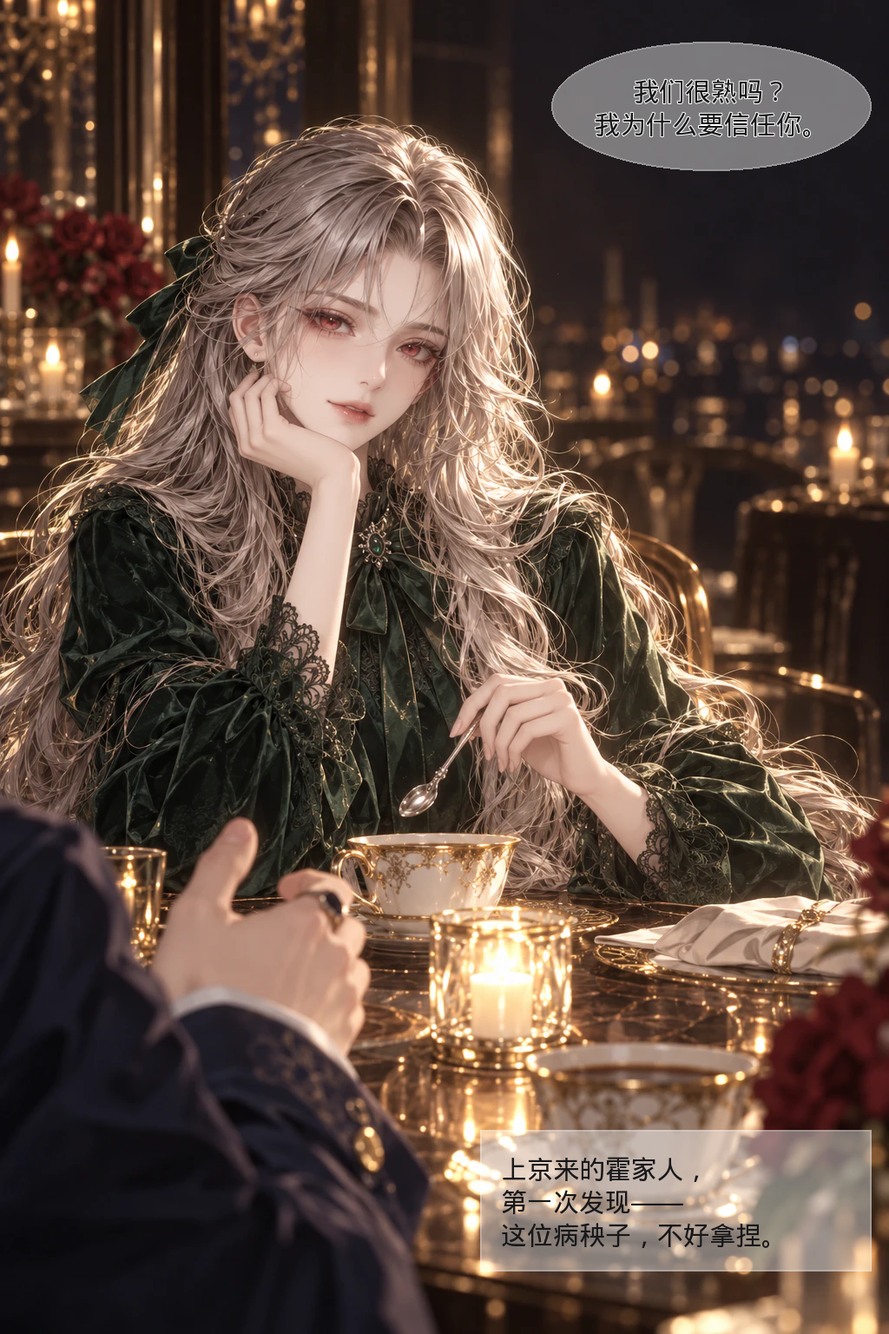
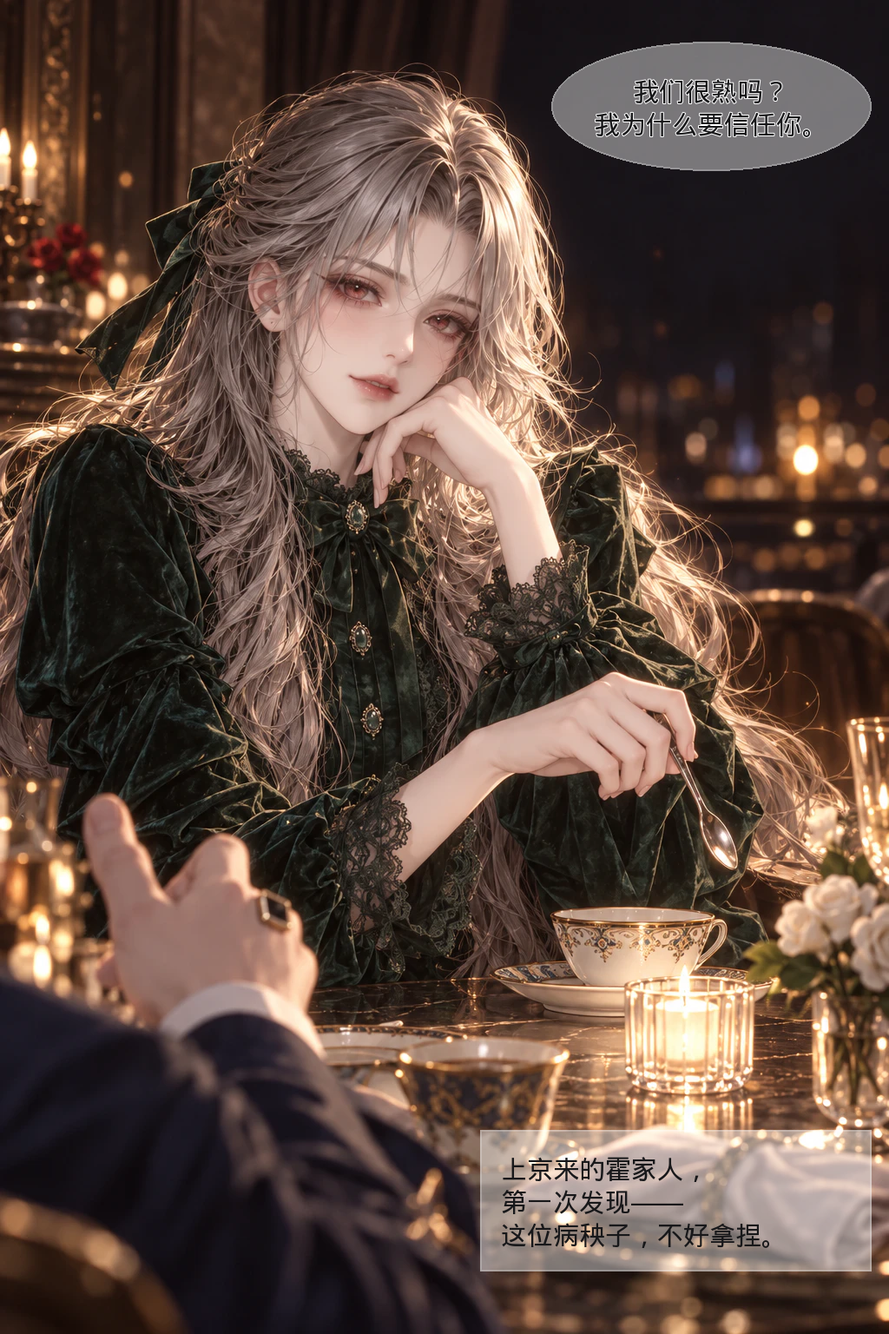
按创作者确认纠正11话原包P3/P5页号：恢复约会双格与唯一单镜并重贴

diff --git a/tests/test_comic_lettering.py b/tests/test_comic_lettering.py
@@ -4,6 +4,7 @@ from __future__ import annotations
 import importlib.util
 import json
 import unittest
+import zipfile
 from pathlib import Path
 from unittest import mock
 
@@ -36,6 +37,22 @@ class ComicLetteringTests(unittest.TestCase):
         font, _, _ = lettering.fit_lines("继续说。", self.font, 400, 200, 30, 26)
         self.assertEqual(font.size, 30)
 
+    def test_ch11_corrected_source_page_mapping(self):
+        with zipfile.ZipFile(ROOT / "漫画改编/P11.zip") as archive:
+            for stem, member, panel_count in (
+                ("P3-约会", "P11/p11-5.png", 2),
+                ("P5-反客为主", "P11/p11-3.png", 1),
+            ):
+                with self.subTest(page=stem):
+                    data = json.loads((ROOT / f"漫画改编/工具/贴字-spec/第11话-{stem}.json").read_text())
+                    self.assertEqual(data["source_member"], member)
+                    self.assertEqual((ROOT / data["image"]).read_bytes(), archive.read(member))
+                    self.assertEqual(len(data["panel_rects"]), panel_count)
+        specs = ROOT / "漫画改编/工具/贴字-spec"
+        single_pages = [p.stem for p in specs.glob("第11话-*.json")
+                        if len(json.loads(p.read_text())["panel_rects"]) == 1]
+        self.assertEqual(single_pages, ["第11话-P5-反客为主"])
+
     def test_closeout_specs_and_rendered_boxes(self):
         specs = ROOT / "漫画改编/工具/贴字-spec"
         paths = sorted(specs.glob("第11话-*.json")) + sorted(specs.glob("第12话-*.json"))
@@ -50,8 +67,16 @@ class ComicLetteringTests(unittest.TestCase):
                     self.assertEqual(out.size, canvas.size)
                     self.assertEqual(out.mode, "RGB")
                 panels = data["panel_rects"]
-                # Current closeout pages have visible straight gutters or a single panel.
-                self.assertEqual(panels, [list(r) for r in lettering.detect_panels(canvas)[0]])
+                # P3 的偏暖细白缝无法由默认检测识别，验证手测坐标及核心白线。
+                if path.name == "第11话-P3-约会.json":
+                    self.assertEqual(panels, [[0, 0, 1024, 494], [0, 498, 1024, 1536]])
+                    for y in (495, 496):
+                        for x in range(0, canvas.width, 4):
+                            rgb = canvas.getpixel((x, y))[:3]
+                            self.assertGreater(min(rgb), 190)
+                            self.assertLess(max(rgb) - min(rgb), 40)
+                else:
+                    self.assertEqual(panels, [list(r) for r in lettering.detect_panels(canvas)[0]])
                 lettering.OCCUPIED.clear()
                 for i, item in enumerate(data["items"]):
                     self.assertTrue(item["fixed"], "已目检坐标不可再自动漂移")

diff --git a/漫画改编/第11-12话-收尾检查.md b/漫画改编/第11-12话-收尾检查.md
@@ -1,15 +1,27 @@
 # 第 11–12 话｜贴字收尾检查
 
-**日期：2026-10-24 · 贴字文件完成；原画仍有保留项，不等于全部符合原分镜。**
+**更新：2026-10-25 · 第 11 话 P3/P5 已归位重贴；本话版式恢复符合规划。**
 
 12-P2「泼酒」按创作者决定 **保留完整原图，不重出、不裁切，只贴字**。第 11 话 5 页、第 12 话 8 页，13 张成品与对应贴字规格均已落盘。
 
-## 再次复核（创作者反馈无法从分支打开后）
+## 页号最终更正（2026-10-25）
+
+创作者确认原包 P3/P5 名字写反。现已从原包恢复：
+
+| 原始成员（原包不改名） | 正确正片页 | 实图 |
+|---|---|---|
+| `P11.zip → P11/p11-5.png` | P3「约会」 | 空餐厅＋保镖，双格 L2-W |
+| `P11.zip → P11/p11-3.png` | P5「反客为主」 | 托腮持勺，单镜 L-S |
+
+修正包 `11-P5.png` 退出正片，仍保留在原 zip；没有重画或裁切。两页对白按正确页序重新贴入，P3 恢复原草案的椅子旁白。
+**第 11 话仅 P5 一个单镜；此前“双单镜、版式超预算”的结论撤销。**
+
+## 上轮复核记录（2026-10-24，涉及第 11 话旧页号的判断已由上节更正）
 
 - **交付漏项属实**：上轮文件只在工作区，新成品仍未跟踪，没有提交/推送；工作区落盘不等于远端分支可打开。现已通过成果提交 **`6b2b5cb`** 推送到 `arena/d05365eb-drama-skills`；远端 SHA 已核对一致，提交树内 13 张新成品与本报告齐全。
 - **重新看图**：13 张第 11/12 话贴字页全部重新通读；另外对 10-P4 包扎/清理、11-P5 持勺、12-P5 揪衣领、12-P7 捏衣料做了 400% 局部放大抽查。未发现足以推翻这些修正图可用判定的新手部错误；被布料遮住的拇指不强行认定缺指。这是重点抽查，不冒充全页所有手的重新验收。
 - **找到并改正一处图文不符**：10-P4 中格实际是镊子夹棉球清理伤口，不是缝针；「一针一针缝下去」已改为「伤口一点点处理好」，规格与对白同步更新并重渲。
-- **结论分开写**：贴字规格/页序/文件配对通过；11-P3 的单镜偏离、12-P2 的酒色误读仍在。前者不擅自重画，后者按创作者决定保留，不能概括成「原画全部符合」。
+- **结论分开写**：贴字规格/文件配对通过；第 11 话页号已于 10-25 更正。12-P2 酒色误读仍按创作者决定保留，不能把贴字通过当作平台审核保证。
 - **手机阅读提醒**：原幅 26–30px 的字在整页缩至 390px 宽时约 10–11px；原尺寸可读，不将其宣传为已通过所有手机屏幕的免缩放阅读验收。
 
 ## 成品入口
@@ -18,9 +30,9 @@
 |---|---|---|---|
 | 11 | P1 | [赔礼](第11话/P1-赔礼-贴字.png) | L2-W |
 | 11 | P2 | [两盒游戏](第11话/P2-两盒游戏-贴字.png) | L4-Q |
-| 11 | P3 | [约会](第11话/P3-约会-贴字.png) | L-S，旧图审误记为双格 |
+| 11 | P3 | [约会](第11话/P3-约会-贴字.png) | L2-W，原包 p11-5 归位 |
 | 11 | P4 | [三问](第11话/P4-三问-贴字.png) | L3-T |
-| 11 | P5 | [反客为主](第11话/P5-反客为主-贴字.png) | L-S，采用修正图 |
+| 11 | P5 | [反客为主](第11话/P5-反客为主-贴字.png) | L-S，原包 p11-3 归位 |
 | 12 | P1 | [霍音音](第12话/P1-霍音音-贴字.png) | L3-V |
 | 12 | P2 | [泼酒](第12话/P2-泼酒-贴字.png) | L2-W，完整保留原图 |
 | 12 | P3 | [很适合当狗](第12话/P3-很适合当狗-贴字.png) | L3-T，采用修正图 |
@@ -34,20 +46,20 @@
 
 ## 本轮修正与验收
 
-- **13 张新贴字页**：1024×1536、RGB PNG；第 11 话 17 条文字、第 12 话 42 条，共 59 条。
+- **13 张新贴字页**：1024×1536、RGB PNG；第 11 话 18 条文字、第 12 话 42 条，共 60 条。
 - **对白归档**：[第 11 话](第11话/分镜对白.md)、[第 12 话](第12话/分镜对白.md)，逐条对应最终 spec。画外对白必要时标姓名，避免说话者错认。
 - **10-P4 坐标修正**：旧 spec 沿用 941×1672 尺寸，新修正图实际为 1024×1536。本轮改为 y=0–542 / 543–962 / 963–1536 三格，重新排字，避开包扎、持镊和喂食动作。
-- **逐页实测分格**：13 页均使用明确的 `panel_rects`，不沿用旧话坐标。第 11 话 P3 按实图单镜处理。
+- **逐页实测分格**：13 页均使用明确的 `panel_rects`，不沿用旧话坐标。第 11 话 P3 已恢复双格，手工测定偏暖细缝；P5 为单镜。
 - **可读性**：11/12 话半透明底 α=0.42，字号下限 26px；修复半宽格起始字号可能低于 `min_font`、缩小步长可能越过下限的问题。
 - **目检**：逐页检查说话者、阅读顺序、眼口与关键手势避让。移动了初稿中挡脸、挡手的位置；11-P3 与 12-P6 的问答按先问后答排列，12-P7 先读完左格再读右格。
-- **自动检查**：`tests/test_comic_lettering.py` 4 项测试通过，覆盖本轮 14 页的分格矩形、字框越界/重叠、文字宽高、字号下限；成品像素与当前 spec 重渲一致，两话对白归档与 spec 对应。
+- **自动检查**：`tests/test_comic_lettering.py` 5 项测试通过，覆盖本轮 14 页的分格矩形、字框越界/重叠、文字宽高、字号下限；成品像素与当前 spec 重渲一致，两话对白归档与 spec 对应；新增 P3/P5 原包映射与单镜数量回归。
 - **文件完整性**：第 01–12 话共 56 页原图/贴字文件配对齐全；这是文件盘点，不是对前 10 话重新做完整图审。
-- **原图保护**：本轮未修改任何 raw PNG，未生成或裁切原画。13 张新成品和重排的 10-P4 都是独立的 `*-贴字.png`。
+- **原图保护**：10-25 仅按正确来源更换第 11 话 P3/P5 正片 raw，字节与原包成员一致；未生成或裁切原画，其他 raw 不动。贴字均独立输出。
 
 ## 如实保留的原画问题
 
 1. **12-P2 酒色像血的视觉误读风险仍在**。创作者决定保留，已取消重出待办；不把「贴字完成」写成风险消失或平台审核保证。
-2. **11-P3 是单镜，不是旧图审所写的 L2-W**。已核对 `P11.zip` 同名文件字节哈希一致，非本轮错换图。第 11 话 P3/P5 有两个单镜且构图相近，超出每话单镜 ≤1 的版式规则；本轮不擅自重画。P3 删掉无画面依据的「她连椅子都没让人撤」旁白，用画外对白承接约会。
+2. **第 11 话页号问题已解决**：恢复 P3 双格/P5 单镜；不再列作版式遗留。源文件哈希一致不能排除作者写反页号，此前推断不充分。
 3. 11-P2 / 12-P7 湿发、11-P4 动作偏差等沿用原画；不补写未经确认的洗澡/场景解释。本轮未重新执行全部原画的 400% 手部专项，相关判定沿用上轮图审。
 
 ## 收工范围

diff --git a/漫画改编/记忆存档.md b/漫画改编/记忆存档.md
@@ -5,7 +5,7 @@
 > 「一、当前状态」「三、版式记录」「五、操作日志」三处，再提交。
 > 历史细节查 git log 与 `.agents/notes/`；本文件只保留"现在要知道的事实"。
 >
-> 最后更新：2026-10-24（分支交付补正与再次复核）
+> 最后更新：2026-10-25（第 11 话 P3/P5 源图页号纠正）
 
 ---
 
@@ -16,7 +16,7 @@
 | 分支 | `arena/d05365eb-drama-skills` |
 | 项目根 | `漫画改编/` |
 | 已完成话数 | **第 01–12 话均有 raw + 贴字成品，共 56 页**；本轮完成 11 话 5 页、12 话 8 页，并重排 10-P4 |
-| 进行中 | **贴字完成，成果已推送并核验**。12-P2 原图完整保留，只贴字，不重出、不裁切；第 13 话未开工 |
+| 进行中 | **贴字完成；第 11 话 P3/P5 已按原包纠正并重渲**。12-P2 原图完整保留，只贴字，不重出、不裁切；第 13 话未开工 |
 | 发布节点 | **发到第 12 话**（最终落点是 P8 镜前「怪物」，名字揭示在 P1）；第一卷共 15 话，见 `后续话数规划.md` |
 | 画风基准 | 第 01 话成品页（gpt-image-2.5 出图，韩系半写实厚涂 / 日系乙女 CG） |
 | 生图归属 | 第 01–08 话：AI 出图；**第 09 话起：创作者自行出图**，AI 只交付提示词/分镜/贴字 |
@@ -68,7 +68,7 @@
 | 01–08 | — | L3-V（旧） | 改版前产物，不回溯重做 |
 | 09 | 5 | L3-V ×5 | 旧节奏；09 起不再重出，仅贴字 |
 | 10 | 5 | L3-V ×5 | 同上；P4 中格按实图为清理伤口，已撤下「缝针」旁白 |
-| 11 | 5 | L2-W / L4-Q / **L-S** / L3-T / L-S | 实图 4 种；P3 原图本就是单镜，旧图审误记双格；双单镜属遗留例外，本轮不改画 |
+| 11 | 5 | L2-W / L4-Q / **L2-W** / L3-T / L-S | 原包 P3/P5 名字写反，已归位；4 种版式，仅 P5 单镜，符合版式规则 |
 | 12 | 8 | L3-V / L2-W / L3-T / L4-Q / L2-W / L3-B / L2-D / L-S | 7 种；P2 原图保留并贴字，8 页齐全 |
 | 13+ | — | **待排** | 本轮不推进 |
 
@@ -76,8 +76,7 @@
 
 | 话 | 页 | 转折点 | 三问得分 |
 |---|---|---|---|
-| 11 | P3 | 约会（原画偏离双格规划） | 未作转折三问批准；登记遗留，不编造评分 |
-| 11 | P5 | 反客为主 | 草案 3/3；与 P3 构图相似，效果弱于规划 |
+| 11 | P5 | 反客为主 | 草案 3/3；原包 p11-3.png 归位后为本话唯一单镜 |
 | 12 | P8 | 镜前怪物、自囚伏笔 | 3/3；本话唯一单镜 |
 
 ---
@@ -86,16 +85,17 @@
 
 ### 本轮已完成（不再追重出）
 - [x] 10-P4 修正图已入库；本轮将旧 941×1672 坐标改成新图 1024×1536 的三格实测坐标，重排文字。
-- [x] 11-P5 / 12-P3 / 12-P5 修正图已入库并贴字。
+- [x] 12-P3 / 12-P5 修正图已入库并贴字；第 11 话按源图页号纠正为原包 p11-5 → P3、p11-3 → P5，两个成品已重渲。
 - [x] **12-P2「泼酒」按创作者决定不修改原图**：不重出、不裁切，只贴字；风险留档但非缺页。
 - [x] 第 11 话 5 页 + 第 12 话 8 页共 **13 页贴字**，13 份 spec + 两份 `分镜对白.md` 齐全。
 - [x] 14 页贴字规格（含 10-P4）通过边界、重叠、文字容纳和字号检查；成品逐页目检。
 - [x] 第 09/10 话此前补字完成；本轮只重渲 10-P4，其余成品不动。
 - [x] 第 11 话 ch31–33「礼物」、第 12 话 ch34–37「音音」章节归属已校正。
 
+- [x] **11-P3/P5 页号问题已解决**：恢复 P3 双格、P5 单镜，撤销“双单镜超预算”结论。
+
 ### 原画遗留（本轮不改）
 - **12-P2 酒色容易被误读为血**：创作者明确保留；贴字完成不等于平台审核保证。
-- **11-P3 实际为单镜**，与 P5 同属单镜且构图相近，违反每话单镜 ≤1 的规则；已按实图贴字并纠正旧图审，未擅自重画。
 - 11-P2 / 12-P7 湿发、11-P4 动作与草案差异等小问题沿用原图；不编造场景解释。
 - 第 07 话 P5 男主近景偏大龄；第 04–08 话提示词仍为旧三格格式，留作历史。
 
@@ -108,6 +108,15 @@
 ---
 
 ## 五、操作日志（append-only，最新在上）
+
+### 2026-10-25 · 创作者确认原包 P3/P5 页号写反，归位重贴
+- 原包 `P11/p11-5.png` 是约会双格，恢复到 `第11话/P3-约会.png`；原 `P11/p11-3.png` 是单镜，归位到 `第11话/P5-反客为主.png`。
+- 没有机械互换当前两张单镜：修正包 `11-P5.png` 暂退正片，素材仍在原 zip 中。两张当前 raw 与对应原包成员逐字节相同。
+- P3 手工实测双格 `[0,0,1024,494]` / `[0,498,1024,1536]`（默认检测漏掉偏暖细缝）；P5 单镜。按正确页面对白分别重渲，P3 恢复椅子旁白。
+- 现为 L2-W / L4-Q / L2-W / L3-T / L-S，仅 P5 一个单镜；撤销旧记录的单镜超预算结论。旧日志不改写，以下涉及第 11 话旧页号的判断均由本条更正。
+- 哈希一致只能证明没有取错同名文件，不能证明源文件页号正确；后续优先核对图中叙事与创作者确认。
+- 新增源图映射回归，更新对白、报告和制作记录；12-P2 与其他话成品不动。
+
 
 ### 2026-10-24 · 分支交付补正与再次逐页复核
 - 创作者指出文件不在仓库分支内：确认上轮 13 张成品及规格仍为未跟踪文件，尚未提交/推送；之前「已完成」仅指工作区生成，交付步骤遗漏。

diff --git a/.agents/notes/implemented/bug-fix/2026-10-24-comic-lettering-closeout.md b/.agents/notes/implemented/bug-fix/2026-10-24-comic-lettering-closeout.md
@@ -2,18 +2,22 @@
 
 ## Problem
 
-记忆存档仍列 12-P2 重出，创作者本轮明确不修改原图、贴字后检查收工。第 11–12 话尚无贴字规格与成品。实测发现 10-P4 新图为 1024×1536，旧规格仍为 941×1672；11-P3 原图实际单镜而旧报告误记双格。半宽格的默认字体起始值约 15px，fit_lines 不会提升到 min_font，影响可读性。
+记忆存档仍列 12-P2 重出，创作者本轮明确不修改原图、贴字后检查收工。第 11–12 话尚无贴字规格与成品。实测发现 10-P4 新图为 1024×1536，旧规格仍为 941×1672；起初误把源文件号当作正确页号，后经创作者确认原包 P3/P5 名字写反。半宽格的默认字体起始值约 15px，fit_lines 不会提升到 min_font，影响可读性。
 
 ## Decision
 
 - 保留 12-P2 全幅原图，只贴字，酒色误读风险记录为创作者决定保留的遗留项，不再列待重出。
-- 按当前实图完成 13 份明确 panel_rects 的规格、13 张贴字图并归档对白；11-P3 用画外对白承接约会，不配图中不存在的保镖动作。单镜超预算如实记录，不为收尾擅自重画。
+- 按当前实图完成 13 份明确 panel_rects 的规格、13 张贴字图并归档对白；11-P3/P5 已按创作者更正从原包归位并重渲，P3 为约会双格、P5 为单镜，恢复椅子旁白。
 - 10-P4 重测三格、重排文字；fit_lines 起始字号与收缩步长均不低于 min_size；11/12 话下限 26px，透明度 0.42。
-- 完成逐页目检，新增 4 项回归测试，验证 14 页文字边界/重叠/容纳、分格与字号下限、成品可复现性和对白归档。原图未变；唯一状态入口、图审勘误和问题登记均更新。
+- 完成逐页目检，共 5 项回归测试（含源图映射），验证 14 页文字边界/重叠/容纳、分格与字号下限、成品可复现性和对白归档。两张归位 raw 与原包成员字节相同，其余原图未变；唯一状态入口、图审勘误和问题登记均更新。
 
 ### Follow-up verification
 
 创作者反馈分支内打不开文件后，确认上轮只落盘、未提交/推送，新图仍未跟踪；交付检查补充远端分支 SHA 与成品文件树核验。再次通读 13 页并重点放大四页手部；10-P4 中格实为夹棉球清理而非缝针，旁白改为「伤口一点点处理好」，并同步成品/spec/对白。测试通过不等于原画全部符合分镜，报告明确区分。
+
+### Source page correction（2026-10-25）
+
+原包 `P11/p11-5.png` → P3；`P11/p11-3.png` → P5。修正包 `11-P5.png` 不再作为正片，素材仍在 zip 中。仅交换当前两张单镜会丢掉真正的约会双格，因此回溯原包而非机械互换。撤销“双单镜”结论；源文件哈希相同只保证取图一致，不能证明源页号正确。默认分格检测漏掉 P3 偏暖细缝，实测白缝 y=494–497 后显式锁定并测试。
 
 ## Alternatives considered
 
@@ -23,4 +27,4 @@
 ## Consequences
 
 - 收益：现有页形成可复现的贴字成品，接手不再误追已取消/已完成的重出任务。
-- 代价：12-P2 酒色与第 11 话双单镜等原画遗留问题仍然存在；此轮仅处理贴字及事实记录，不代表平台审核保证。
+- 代价：12-P2 酒色等原画遗留问题仍然存在；第 11 话双单镜判断已因源页号更正撤销；此轮仅处理贴字及事实记录，不代表平台审核保证。

diff --git a/漫画改编/第11话/分镜对白.md b/漫画改编/第11话/分镜对白.md
@@ -1,13 +1,16 @@
 # 第 11 话｜礼物 · 成品分镜对白
 
-> 2026-10-24 收尾版。以下对白与 `工具/贴字-spec/` 的最终渲染逐条对应；格内先上后下，同层先左后右，左右对开页先读完左格再读右格。
-> 原图不改；半透明框 α=0.42，字号下限 26px，固定定位防止重渲漂移。
+> 2026-10-25 页号更正版。以下对白与 `工具/贴字-spec/` 的最终渲染逐条对应；格内先上后下，同层先左后右，左右对开页先读完左格再读右格。
+> 原图按页号归位，不重画、不裁切；半透明框 α=0.42，字号下限 26px，固定定位防止重渲漂移。
 
-## 与分镜草案的差异
+## 源图页号更正（2026-10-25，创作者确认）
 
-- P3 实图为单镜，不是双格。已核对 `P11.zip` 同名页字节哈希，非本轮错换。约会信息由旁白与霍启珏画外对白交代；删除「她连椅子都没让人撤」这条实图无依据的动作旁白。
-- P4 保留不依赖「抬眼」动作的旁白；P2 不补写湿发场景解释。
-- 本话实际 4 种版式，P3/P5 两个单镜，超出一话 ≤1 页的规则；本轮只贴字，如实登记为原画遗留，不伪报全部合规。
+- 原包 `P11/p11-5.png` → **P3「约会」**：上格空餐厅，下格苏梨背影与保镖，L2-W。
+- 原包 `P11/p11-3.png` → **P5「反客为主」**：托腮持勺、抬眼，L-S。
+- `修正图.zip/11-P5.png` 是因旧页号混淆而采用的替代图，本次退出正片；原压缩包原样保留，不删除素材。
+- P3 恢复双格和「她连椅子都没让人撤」旁白；对白按页号重新渲染，不交换旧贴字图。
+- 第 11 话现为 L2-W / L4-Q / L2-W / L3-T / L-S，4 种版式、仅 P5 一个单镜；撤销此前双单镜超预算的结论。
+- P4 沿用不依赖「抬眼」动作的旁白；P2 不补写湿发场景解释。
 
 ## P1-赔礼（L2-W）
 
@@ -29,14 +32,16 @@
 3. 格 3 · 霍谢山：姐姐不喜欢这个。
 4. 格 4 · 旁白：赛车。这个词，苏梨记了一辈子。
 
-## P3-约会（L-S）
+## P3-约会（L2-W）
 
 - 成品：[P3-约会-贴字.png](P3-约会-贴字.png)
-- 分格像素：`[[0, 0, 1024, 1536]]`
+- 原图来源：`漫画改编/P11.zip/P11/p11-5.png`
+- 分格像素：`[[0, 0, 1024, 494], [0, 498, 1024, 1536]]`
 
 1. 格 1 · 旁白：三天后，他约她吃饭。包下整层顶楼，请了乐手。
-2. 格 1 · 霍启珏（画外）：霍启珏：梨梨，约会用不上这么多人吧。
-3. 格 1 · 苏梨：谁说要和你约会了。
+2. 格 2 · 霍启珏（画外）：霍启珏：梨梨，约会用不上这么多人吧。
+3. 格 2 · 苏梨：谁说要和你约会了。
+4. 格 2 · 旁白：她连椅子都没让人撤。
 
 ## P4-三问（L3-T）
 
@@ -51,6 +56,7 @@
 ## P5-反客为主（L-S）
 
 - 成品：[P5-反客为主-贴字.png](P5-反客为主-贴字.png)
+- 原图来源：`漫画改编/P11.zip/P11/p11-3.png`
 - 分格像素：`[[0, 0, 1024, 1536]]`
 
 1. 格 1 · 苏梨：我们很熟吗？我为什么要信任你。

diff --git a/漫画改编/修正图审查-第二轮.md b/漫画改编/修正图审查-第二轮.md
@@ -1,5 +1,10 @@
 # 修正图审查（2026-10-24 第二轮）
 
+> **2026-10-25 更正**：本报告第 11 话分析沿用了写反的源文件页号，相关判断作废。
+> 原包 `p11-5.png` 已归位 P3 约会双格，`p11-3.png` 归位 P5 反客为主单镜；两页已重新贴字。
+> 修正包 `11-P5.png` 本次退出正片但原包保留。下文第二节仅作当时审图历史，不能继续当成当前 P5 的验收依据。
+
+
 > 来源：`漫画改编/修正图.zip`，1024×1536，共 4 张。
 > 结论：**4 张全部通过，3 张已入库，1 张补上了第 10 话的缺口。**
 > **收尾更新**：12-P2 不在修正包中，创作者明确不再修改；原图完整保留并贴字。11/12 话共 13 页已完成贴字。
@@ -106,9 +111,9 @@
 |---|---|---|
 | P1 赔礼 | L2-W | ✅ |
 | P2 两盒游戏 | L4-Q | ✅（第 3 格湿发，见下） |
-| P3 约会 | **L-S（实图）** | 已贴字；旧报告误记双格，单镜超预算留档 |
+| P3 约会 | **L2-W** | 原包 p11-5 归位并重贴 |
 | P4 三问 | L3-T | ✅（第 3 格未抬眼，改字处理） |
-| P5 反客为主 | L-S | ✅ **本轮修正** |
+| P5 反客为主 | L-S | 原包 p11-3 归位并重贴 |
 
 ### 第 12 话（8 页）—— **8 页均已贴字**
 | 页 | 版式 | 状态 |

diff --git a/漫画改编/第11-12话-图审报告.md b/漫画改编/第11-12话-图审报告.md
@@ -1,10 +1,9 @@
 # 第 11–12 话 出图审查报告
 
-> **当前状态勘误（2026-10-24 收尾）**：下文保留的是首轮图审历史，不再作为待办。
-> 11-P5 / 12-P3 / 12-P5 已由第二轮修正图替换；12-P2 按创作者决定保留全幅原图，仅贴字。
-> 第 11 话 5 页、第 12 话 8 页均已贴字。另核实 **11-P3 实图为单镜，不是本报告误记的 L2-W**；
-> 第 11 话实图存在两个单镜，遗留问题不隐去。当前状态以 `记忆存档.md` 与 `第11-12话-收尾检查.md` 为准。
-
+> **当前状态勘误（2026-10-25）**：下文保留首轮历史，不能再用旧页号执行重出。
+> 创作者确认原包 P3/P5 写反；已恢复原 p11-5 为 P3「约会」双格、原 p11-3 为 P5「反客为主」单镜并重贴。
+> 此前“11-P5 单镜失败”及后续“双单镜超预算”都受错号影响，现已撤销；第 11 话版式符合规划。
+> 12-P3 / 12-P5 沿用修正图；12-P2 按创作者决定保留。当前状态以 `记忆存档.md` 和 `第11-12话-收尾检查.md` 为准。
 
 > 2026-10-24 · 审查对象：`漫画改编/P11.zip`（5 页）、`漫画改编/P12.zip`（8 页），全部 1024×1536。
 > 结论：**13 页里 9 页通过，2 页必须重出，2 页建议重出。**

diff --git a/漫画改编/第11话/分镜与提示词.md b/漫画改编/第11话/分镜与提示词.md
@@ -6,8 +6,9 @@
 > 参考图：只上传女主（17）+ 男主（16）两张；配角全程文字锁。
 > 每页文字量目标 **90–130 字**（旧话平均仅 36 字）。
 
-> **2026-10-24 成品勘误**：P3 实图为 L-S，与计划 L2-W 不同；本轮不改画，按实图贴字。
-> 成品为 L2-W / L4-Q / L-S / L3-T / L-S，两个单镜属遗留例外；对白以 `分镜对白.md` 为准。
+> **2026-10-25 页号更正**：创作者确认原包 P3/P5 名字写反。已恢复原 `p11-5.png` 为 P3 约会双格，
+> 原 `p11-3.png` 为 P5 反客为主单镜；与本表版式一致，仅 P5 一个单镜。此前“双单镜”结论撤销。
+> 两页重新贴字，原图来源与实际对白以 `分镜对白.md` 为准。
 
 ## 版式规划表
 
